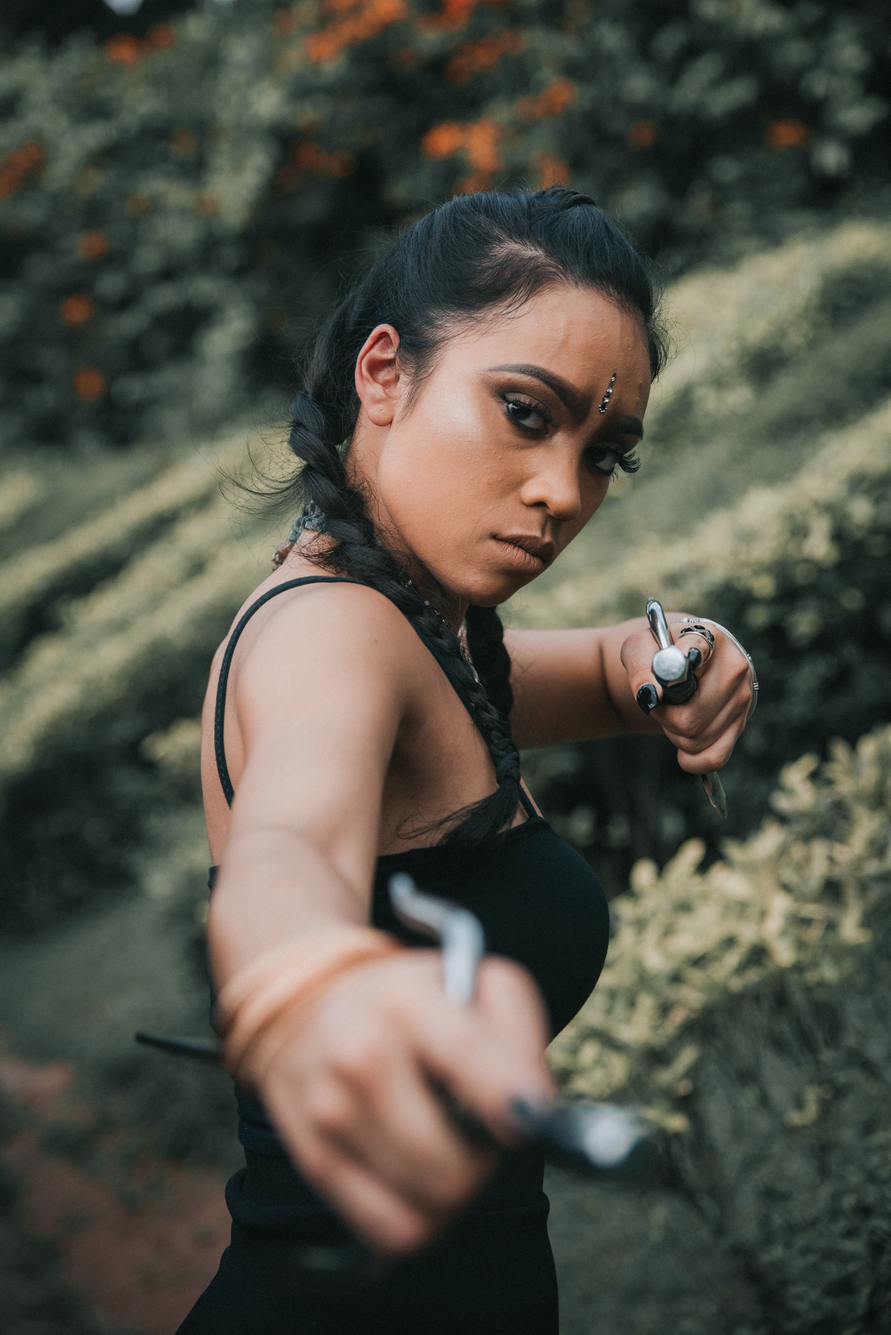
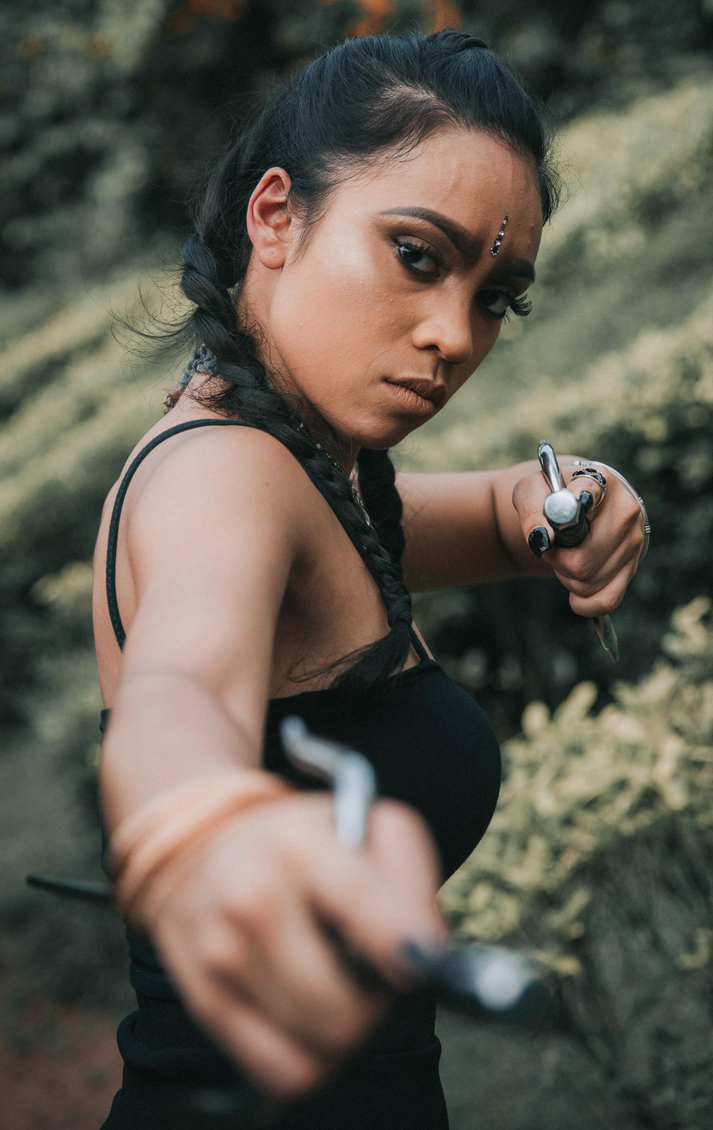
added screenshots to readme.  Cropped photos used.

diff --git a/README.md b/README.md
@@ -19,6 +19,14 @@ $ npm start
 ```
 * Note:  A web browser should automatically open to the ability_score_generator.  If not, you can open a browser and manually navigate to http://localhost:3000/.
 
+## Screenshots
+
+![Screenshot of homepage](public/assets/screenshots/homepage.png)
+
+![Screenshot of input form](public/assets/screenshots/inputform.png)
+
+![Screenshot of results page](public/assets/screenshots/resultspage.png)
+
 ## Acknowledgements
 
 Logo designed with [Adobe Spark](https://www.adobe.com/express/create/logo).
